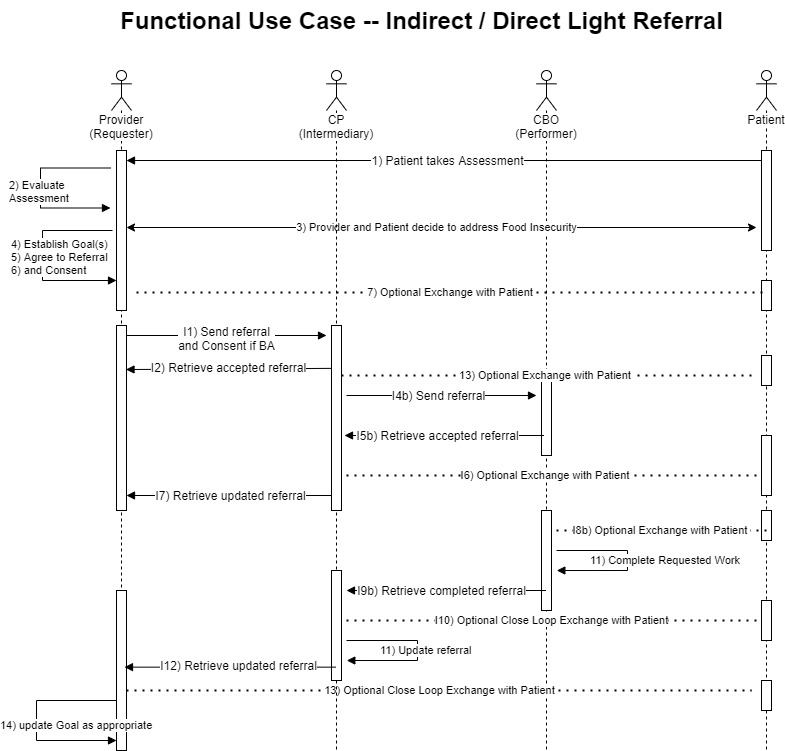
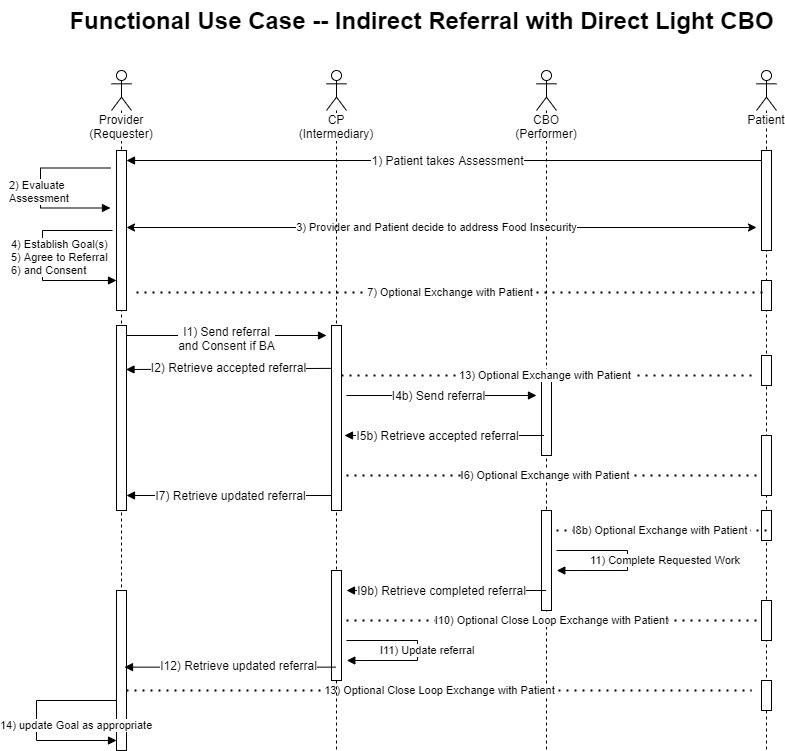
Add files via upload

Changed region(s): [[0.0917, 0.0, 1.0, 0.0613], [0.4892, 0.8575, 0.6115, 0.8881]]

diff --git a/input/pagecontent/functional_use_cases.md b/input/pagecontent/functional_use_cases.md
@@ -1,6 +1,13 @@
 Note: SDOH IG related Patient Stories are available on the Gravity Project Confluence site [here](https://confluence.hl7.org/display/GRAV/Patient+Stories)
 
-These use cases are represented by workflow diagrams on the [Exchange Worflow Page](exchange_workflow.html)
+These use cases are represented by workflow diagrams on the [Exchange Workflow Page](exchange_workflow.html)
+
+The following numbering is use throughout this section where N is an integer number:
+
+- N (e.g. 1-14) are steps common to all functional use cases
+- IN (e.g. I1-I12) are additional steps used only by Indirect use cases
+- INa (e.g. I8,I9) are steps used by the Indirect use case when communicating with a FHIR API enabled CBO
+- INb (e.g. I8b, I9b) are steps used by the Indirect use case when communicating with a FHIR application enabled CBO
 
 ### Overview
 
@@ -8,8 +15,8 @@ The functional use cases defined below are based on specific exchanges of inform
 
 - A direct referral between a requesting entity and a performing entity where both entities have FHIR APIs to facilitate the exchanges
 - A "light" version of the direct referral where the performing entity uses a application that can access the referring entities API (but does not have FHIR API capability)
-- An indirect referral, where the communication between the referring entity and the performing entity is though an intermediary (such as a Coordination Platform as defined below) that has FHIR API capability.
-- Finally, a patient application may optionally communicate directly with any of the entities that support a FHIR API and provide a mechanism for secure exchange with the pateach entity that has a FHIR API capability, may optionally communicate with a patient application that is able to connect to the does not have a FHIR API Care Coordinator (coordinates the care and referral activities but normally does not make assessment, goal, or referral decisions)
+- An indirect referral, where the communication between the referring entity and the performing entity is through an intermediary (such as a Coordination Platform as defined below) that has FHIR API capability
+- Finally, a patient application may optionally communicate directly with any of the entities that support a FHIR API and provides a mechanism for secure exchange
 
 ### Actors
 
@@ -102,7 +109,7 @@ Note: Community Based Organization (CBO) has an application that can interact wi
 
 #### Provider Actions (same as Direct Referral)
 
-1.  through 7.
+- steps 1. through 7.
 
 #### CBO - Provider Actions (changed based on CBO application vs FHIR API)
 
@@ -118,7 +125,7 @@ Note: Community Based Organization (CBO) has an application that can interact wi
 
 #### Provider Actions (same as Direct Referral)
 
-12. through 14. 
+- steps 12. through 14. 
 
 #### Considerations (same as Direct Referral)
 
@@ -147,7 +154,7 @@ Patient is assessed by a practitioner and referred to a Coordination Platform (C
 
 #### Provider Actions (same as Direct Referral)
 
-1. through 7.
+- steps 1. through 7.
 
 #### Provider – CP – CBO workflow 
 
@@ -167,7 +174,7 @@ I7. CP updates status of the initial referral
 
 I8a. Optional: CBO communicates with patient via their application to schedule appointments, collect additional information, etc.
 
-11. CBO completes the evaluation and enrollment
+- step 11. CBO completes the evaluation and enrollment
 
 I9a. CBO updates the status of the referral to completed, and includes information on what was completed
 
@@ -179,9 +186,9 @@ I12. Provider receives the updated status
 
 #### Provider Actions (same as Direct Referral)
 
-13. and 14. 
+- steps 13. and 14. 
 
-#### Considerations in addition to Direct
+#### Considerations in addition to Direct Referral
 
 - CPs may not be a BA of the covered entity and therefore not bound by HIPAA's privacy and security requirements
 - CP may not always have a formal relationship with a CBO
@@ -214,7 +221,7 @@ Patient is assessed by a practitioner and referred to a Coordination Platform (C
 
 #### Provider Actions (same as Direct Referral)
 
-1. through 7.
+- steps 1. through 7.
 
 #### Provider – CP – CBO workflow (note: steps with a "b" suffix are specific to this referral)
 
@@ -234,7 +241,7 @@ I7. CP updates status of the initial referral
 
 I8b. Optional exchange with Patient does not occur electronically (no app to app exchange)
 
-11. CBO completes the evaluation and enrollment
+- step 11. CBO completes the evaluation and enrollment
 
 I9b. CBO updates the status of the referral to completed, and includes information on what was completed
 
@@ -246,9 +253,9 @@ I12. Provider receives the updated status
 
 #### Provider Actions (same as Direct Referral)
 
-13. and 14. 
+- steps 13. and 14.
 
-#### Considerations (same as Indirect / Direct)
+#### Considerations (same as Indirect Referral with Direct CBO)
 
 <table><tr><td><img src="FunctionalUseCaseFlowIndirectDirectLightReferral3.jpg" /></td></tr></table>
 
@@ -267,9 +274,10 @@ Assumes patient is using a personal application (e.g., Smart Phone application) 
 
 #### Patient Workflow (from above functional use cases)
 
-	Note: all exchanges are optional
+	Note: all exchanges are optional
 
 - Provider - Patient
+
   7. Provider makes information regarding the referral available to the patient's application
 
 - CP - Patient

diff --git a/input/pagecontent/index.md b/input/pagecontent/index.md
@@ -1,6 +1,6 @@
 ### Overview
 
-2022-10-19 fix functional use case names
+2022-10-23 all fixes except fro General workflow and stu2 history
 
 Social Determinants of Health (SDOH) are increasingly being recognized as essential factors that influence healthcare outcomes. This HL7 Implementation Guide (IG) defines how to exchange SDOH content defined by the [Gravity Project]( https://confluence.hl7.org/display/GRAV/The+Gravity+Project) using the HL7 FHIR standard. It defines how to represent coded content used to support the following care activities: screening, clinical assessment/diagnosis, goal setting, and the planning and performing of interventions. This IG addresses the need to gather SDOH information in multiple settings, share that information between stakeholders, and exchange referrals between organizations to address specific social risk needs, all with appropriate patient consent.  In addition, the IG demonstrates how to share clinical data to support secondary purposes such as population health, quality, and research. The guide supports the following use cases:
 
@@ -41,9 +41,45 @@ Implementers should pay specific attention to the following sections:
 * [Artifacts Index](artifacts.html) provides easy access for all implementers the FHIR R4 profiles, examples and other FHIR artifacts defined in this implementation guide and linked from this section -- this section also includes the details for the declared capability statements for the respective servers and clients
 * [Downloads](downloads.html) links to allow implementers to download the IG and various artifacts
 
-Notes: 
+### Support for external terminologies for ServiceRequest and Procedure
 
-Include description of using alternative code systems and value sets for ServiceRequest and Procedure
+If implementers of this IG wish to use terminologies that are not part of the required value sets for specific elements that have a type of CodableConcept (such as ServiceRequest.code and Procedure.code) they may include a specific Coding the specifies a system (URL that is defined and supported by the terminology author) as well as the specific code (define in the terminology) as long as the meaning of the code is a concept that is logically the same as, or contained in the concept, of the required code.
+
+The following is an example for a ServiceRequest or Procedure where the external terminology
+
+URL is  : http://terminologysystem and the code is : SummerProgram
+
+		"code" : {
+  	  "coding" : [
+   	   {
+ 	       "system" : "http://snomed.info/sct",
+	        "code" : "467681000124101",
+	        "display" : "Assistance with application for Summer Food Service Program"
+	      }
+	      ]
+	    },
+	    {
+	      "coding" : [
+	        {
+	          "system" : "http://terminologysystem",
+	          "code" : "SummerProgram",
+	          "display" : "Summer Food Service Program"
+	        }
+	      ]
+	    }
+	  ],
+
+### Intellectual Property
+{% include ip-statements.xhtml %}
+
+### Cross Version Analysis
+{% include cross-version-analysis.xhtml %}
+
+### Dependencies
+{% include dependency-table.xhtml %}
+
+### Globals
+{% include globals-table.xhtml %}
 
 
 

diff --git a/input/pagecontent/synchronizing_applications_with_api_data_sources.md b/input/pagecontent/synchronizing_applications_with_api_data_sources.md
@@ -20,7 +20,7 @@ The intent of this section is to standardize the interactions between FHIR APIs 
 
 4) API URL and the tokens are stored in the application 
 
-5) When the patient/client authenticates to the application, on a timed schedule,**** or on demand
+5) When the patient/client authenticates to the application, on a timed schedule or on demand
 
 - Application uses the URL and refresh token to obtain an access token 
 - Application follows the Referral Source Light workflow process 

diff --git a/input/pagecontent/draft_specifications_for_personal_characteristics.md b/input/pagecontent/draft_specifications_for_personal_characteristics.md
@@ -70,7 +70,7 @@ There is a possibility that either or both the US Core Patient profile and Perso
 
 	the author organization responsible for the information, and 
 
-	the transmitter (e.g. provider, payer, etc.) that provided the informaton.  
+	the transmitter (e.g. provider, payer, etc.) that provided the information.  
 
 Additional guidance is provided in the [US Core 3.1.1 Basic Provenance Guidance](http://hl7.org/fhir/us/core/STU3.1.1/basic-provenance.html). 
 
